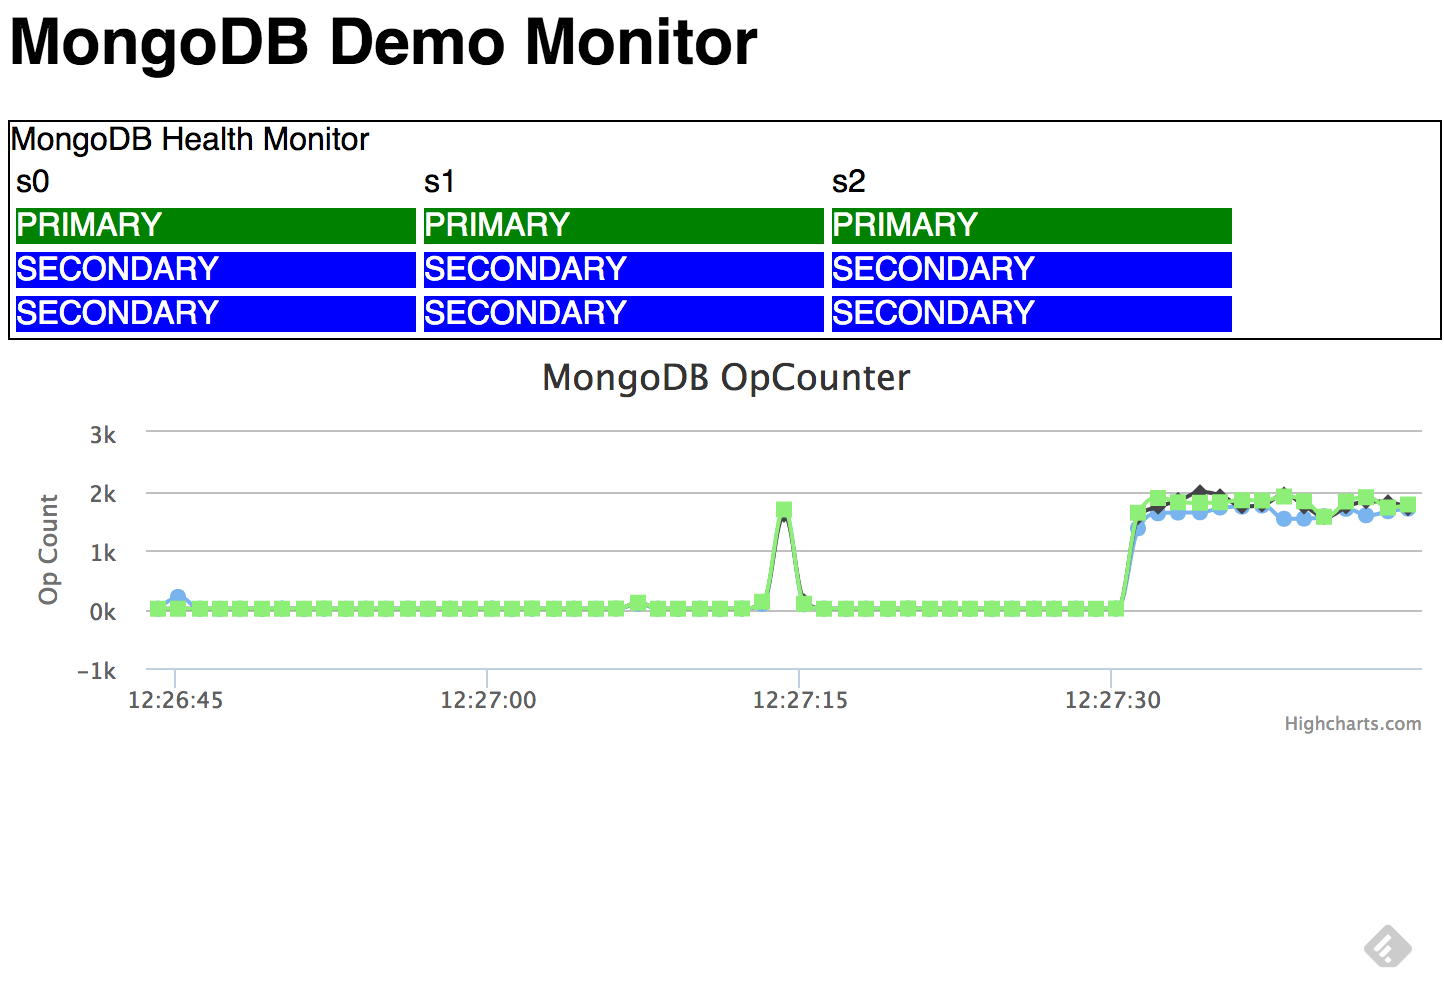
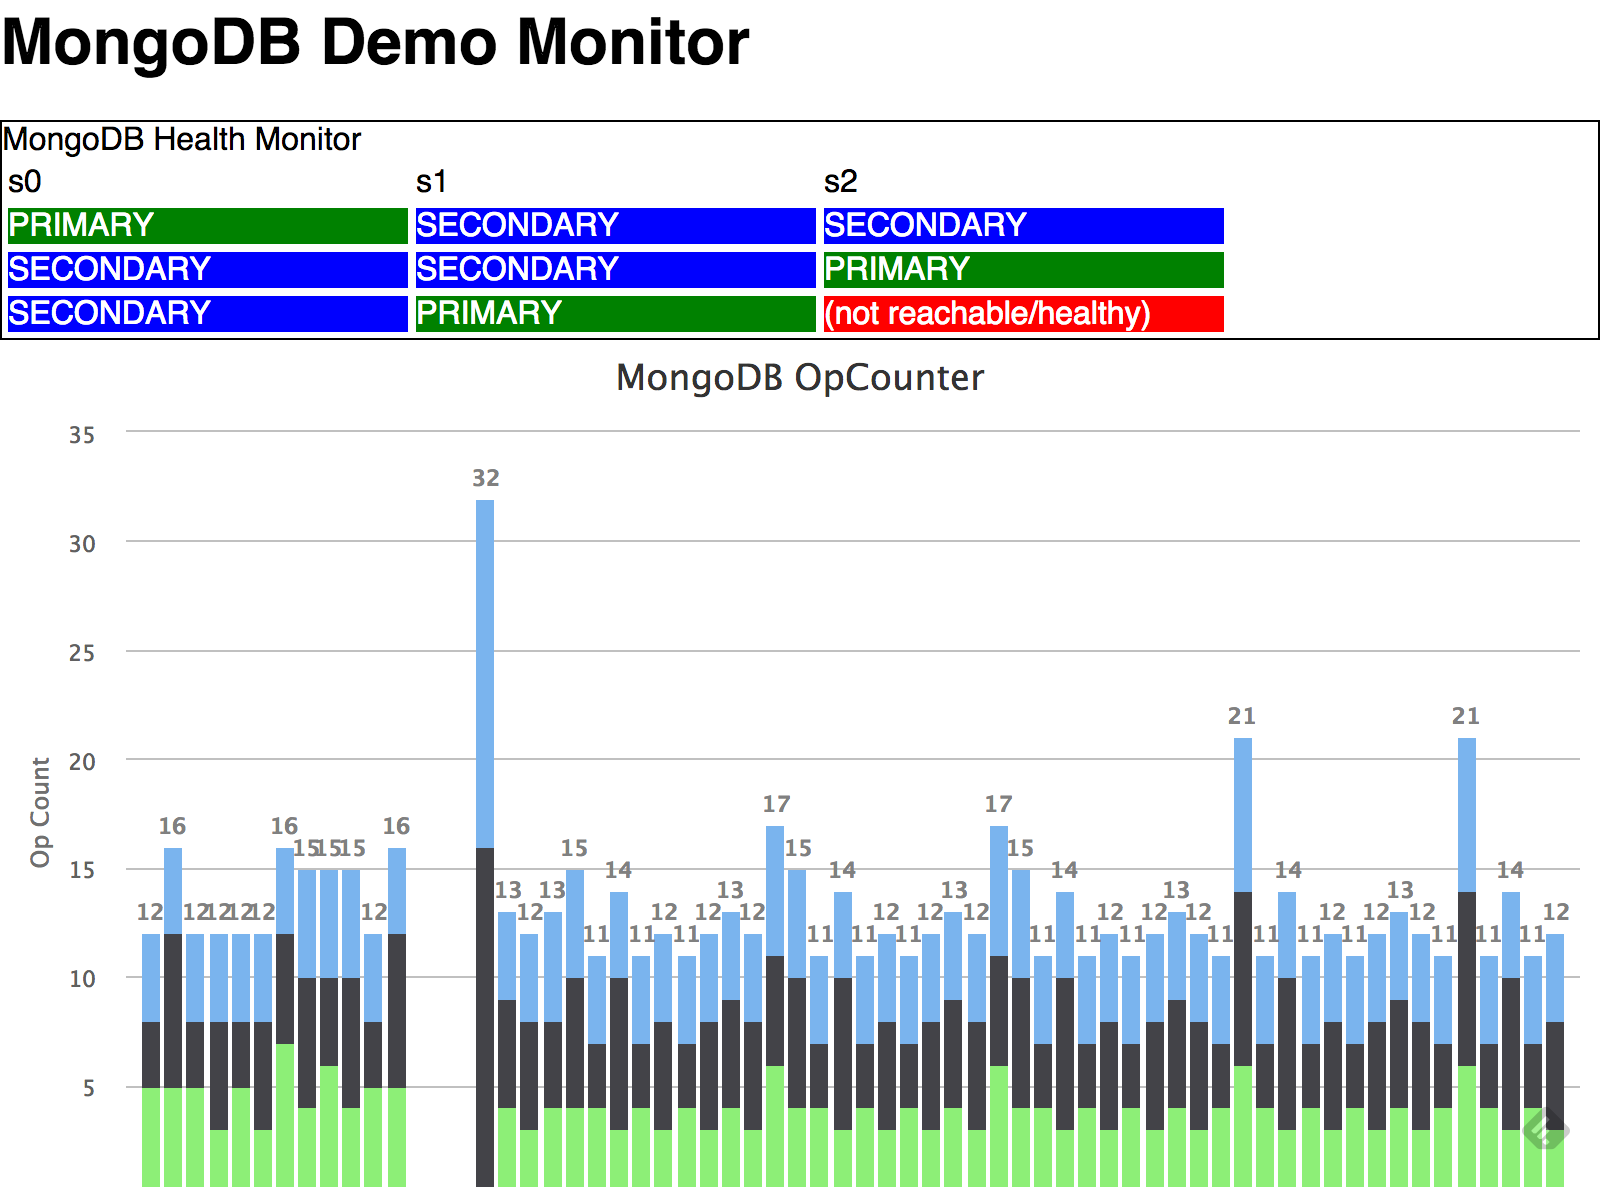
added bar graph status

diff --git a/static/js/heartMon.js b/static/js/heartMon.js
@@ -207,7 +207,7 @@ heartMon = {
 
         var graphOptions = {
             chart: {
-                type: 'spline',
+                type: 'column',
                 animation: Highcharts.svg, // don't animate in old IE
                 marginRight: 10
                 
@@ -220,14 +220,22 @@ heartMon = {
                 tickPixelInterval: 150
             },
             yAxis: {
-                title: {
+                min: 0,
+				title: {
                     text: 'Op Count'
                 },
                 plotLines: [{
                     value: 0,
                     width: 1,
                     color: '#808080'
-                }]
+                }],
+				stackLabels: {
+				 enabled: true,
+				 style: {
+				   fontWeight: 'bold',
+				   color: (Highcharts.theme && Highcharts.theme.textColor) || 'gray'
+				 }
+			    }
             },
             tooltip: {
                 formatter: function () {
@@ -237,8 +245,25 @@ heartMon = {
                 }
             },
             legend: {
-                enabled: false
+                enabled: true
             },
+			plotOptions: {
+			            column: {
+							borderWidth: 0,
+							groupPadding: 0,
+							animation: false,
+							lineWidth: 0,
+							shadow: false,
+			                stacking: 'normal',
+			                dataLabels: {
+			                    enabled: false,
+			                    color: (Highcharts.theme && Highcharts.theme.dataLabelsColor) || 'white',
+			                    style: {
+			                        textShadow: '0 0 3px black, 0 0 3px black'
+			                    }
+			                }
+			            }
+			        },
             exporting: {
                 enabled: false
             },

diff --git a/static/css/client.css b/static/css/client.css
@@ -10,3 +10,4 @@ div#results {}
 div#footer {font-size:0.9em; color:#555555;  margin-top:30px; margin-left:10px; margin-right:10px;}
 
 #map-canvas { height: 300px; margin: 0; padding: 0;}
+#heartGraph {min-width: 300px; height: 500px; margin: 0 auto;}

diff --git a/static/index.html b/static/index.html
@@ -18,7 +18,7 @@
 		</div>
 		<div id="body">
 			<div id="heartMon"></div>
-			<div id="heartGraph" style="min-width: 300px; height: 200px; margin: 0 auto"></div>
+			<div id="heartGraph"></div>
 		</div>
 		<div id="footer">
 
